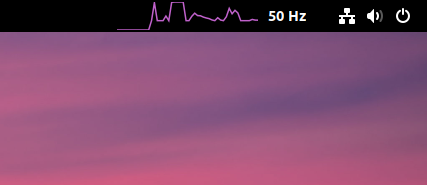
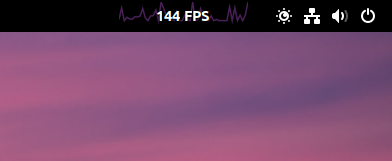
feat: dynamically update the maximum observed refresh rate and refresh the screenshot.

diff --git a/extension.js b/extension.js
@@ -298,7 +298,7 @@ const RefreshRateIndicator = GObject.registerClass(
                 } else {
                     fps = this._frameCount / (this._accumulatedTime / 1000000);
                     if (this._maxHz > 0 && fps > this._maxHz) {
-                        fps = this._maxHz;
+                        this._maxHz = fps;
                     }
 
                     const minHz = this._settings.get_int('min-hz');
